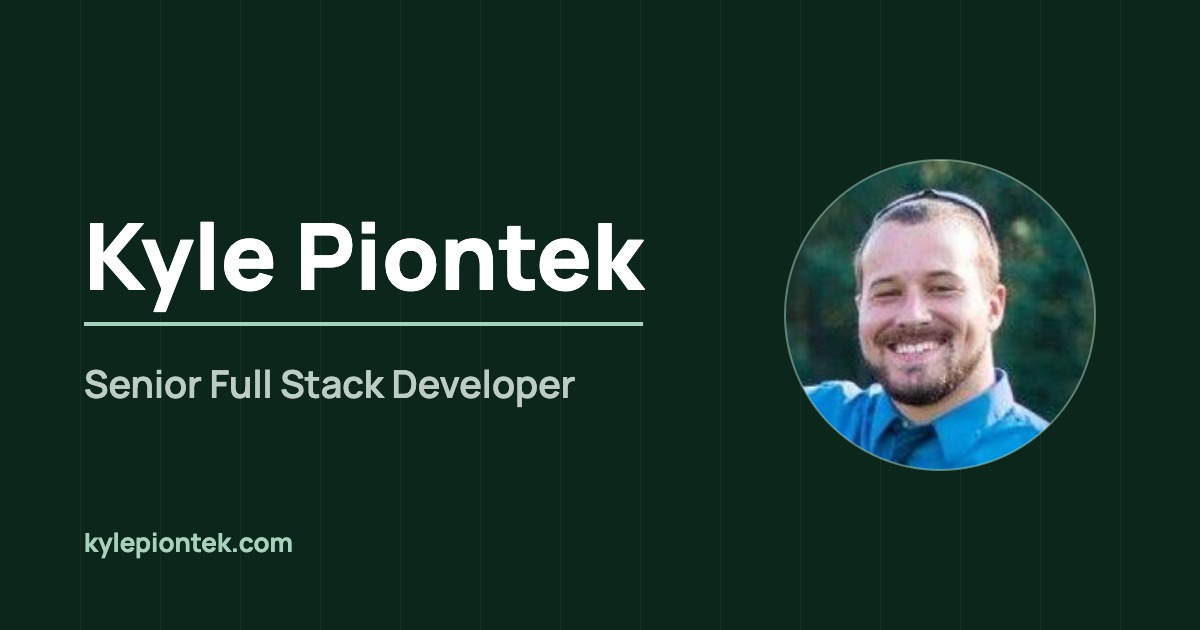
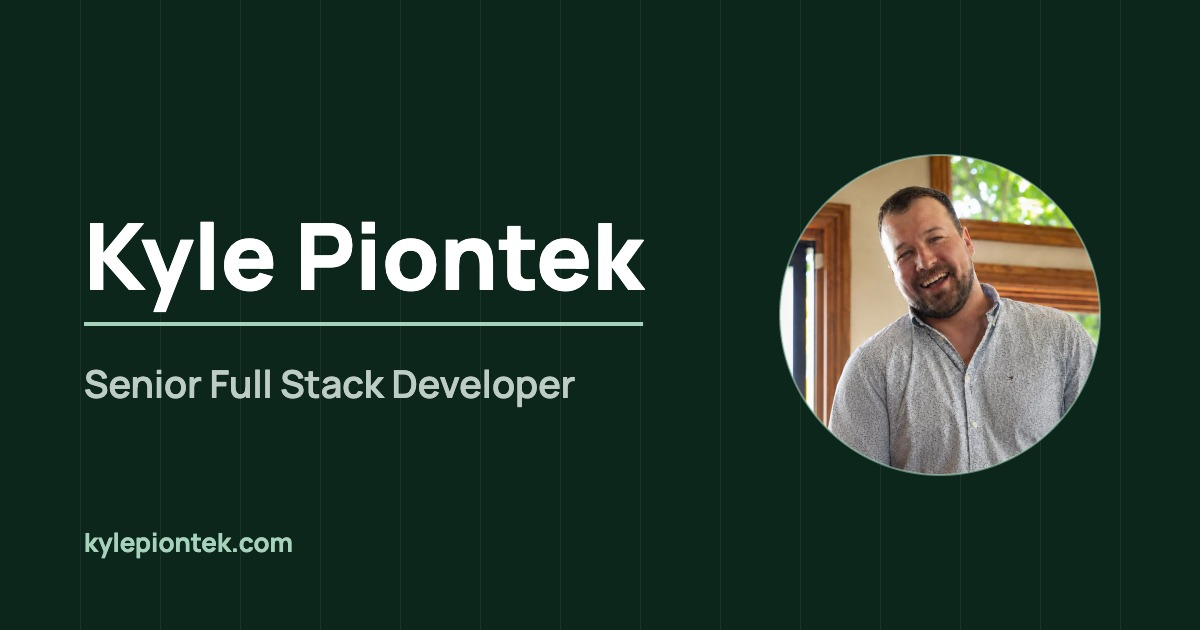
Sharpen the copy for recruiters and fix assets
The hero leads with concrete numbers and location, About states the
AI-native workflow, and the cards carry their proof numbers. The OG
card and JSON-LD photo use the new headshot. The resume PDF now says
420+ SiteCMD checks.

Changed region(s): [[0.6475, 0.2413, 0.925, 0.754]]

diff --git a/src/Portfolio.jsx b/src/Portfolio.jsx
@@ -220,13 +220,13 @@ function Portfolio() {
             <div className="hero-copy">
               <p>
                 I&apos;m a Senior Full Stack Developer with 15 years of
-                experience shipping, stabilizing, and modernizing software for
-                enterprise platforms, public services, and independent
-                products.
+                building and fixing software: 120+ state government websites,
+                a marketplace with 500,000 users, and four products of my own
+                that I run today.
               </p>
               <p>
-                I work from architecture through interface, with practical
-                judgment and care for the people using what I build.
+                Based in Vermont, working remotely, and open to senior and
+                staff engineering roles.
               </p>
               <div className="hero-actions">
                 <a className="button button-primary" href="#work">
@@ -274,8 +274,9 @@ function Portfolio() {
                   <h3>SiteCMD</h3>
                   <p>
                     A local-first desktop app, CLI, and MCP server that audit
-                    websites and source code, prioritize issues by real risk,
-                    and hand exact fixes to the tools developers already use.
+                    websites and source code with 420+ checks, prioritize
+                    issues by real risk, and hand exact fixes to the tools
+                    developers already use.
                   </p>
                   <p>
                     Built as one connected system, from the Rust scan engines
@@ -323,8 +324,8 @@ function Portfolio() {
                   </p>
                   <p>
                     Built around validated data for 124 teams and roughly 1,165
-                    static routes, with shared venue integrity rules and
-                    editorial tooling.
+                    static routes, now drawing 5,000+ monthly visitors, mostly
+                    from organic search.
                   </p>
                   <p className="project-stack">
                     Next.js, React, TypeScript, Supabase, Cloudflare
@@ -435,8 +436,8 @@ function Portfolio() {
             <div className="section-heading">
               <h2>Experience</h2>
               <p>
-                Senior contribution across independent products, enterprise
-                delivery, public infrastructure, and high-traffic platforms.
+                Fifteen years, from agency work to state government to
+                enterprise platforms, plus my own products since 2026.
               </p>
             </div>
 
@@ -499,8 +500,8 @@ function Portfolio() {
             <div className="about-copy">
               <h2>About</h2>
               <p className="about-lead">
-                I build dependable products, modernize complex platforms, and
-                help teams make sound technical decisions.
+                I build products end to end, keep difficult platforms online,
+                and work AI-native with a hard line on what ships.
               </p>
             </div>
 
@@ -512,12 +513,13 @@ function Portfolio() {
                 know how to improve them without losing what already works.
               </p>
               <p>
-                I also build products end to end. Recent work spans React
+                I also build products end to end. Claude Code and Codex write
+                a lot of my code now; automated tests, repository hooks, and my
+                own review decide what merges. Recent work spans React
                 frontends for Tauri desktop applications with Rust at the core,
                 data-heavy Next.js sites, public Cloudflare services, and the
-                operational work required to ship them. I mentor, review,
-                communicate tradeoffs, and step into technical leadership when
-                a project needs it.
+                operational work required to ship them. I mentor, review, and
+                step into technical leadership when a project needs it.
               </p>
             </div>
           </div>
@@ -531,7 +533,8 @@ function Portfolio() {
             ))}
             <p className="capabilities-stack">
               Day to day: TypeScript, JavaScript, React, Next.js, Node.js, PHP,
-              Drupal, GraphQL, MySQL, Rust, Tauri, and Cloudflare.
+              Drupal, GraphQL, MySQL, Rust, Tauri, Cloudflare, Claude Code,
+              Codex, and MCP.
             </p>
           </div>
         </section>
@@ -557,19 +560,11 @@ function Portfolio() {
                 <span className="sr-only"> opens in a new tab</span>
               </a>
               <a
-                href="https://github.com/kpiontek"
-                target="_blank"
-                rel="noreferrer"
-              >
-                Personal GitHub
-                <span className="sr-only"> opens in a new tab</span>
-              </a>
-              <a
                 href="https://github.com/brambleworks"
                 target="_blank"
                 rel="noreferrer"
               >
-                Brambleworks GitHub
+                GitHub
                 <span className="sr-only"> opens in a new tab</span>
               </a>
             </div>

diff --git a/index.html b/index.html
@@ -46,7 +46,7 @@
         "name": "Kyle Piontek",
         "jobTitle": "Senior Full Stack Developer",
         "url": "https://kylepiontek.com",
-        "image": "https://kylepiontek.com/headshot.jpg",
+        "image": "https://kylepiontek.com/headshot.webp",
         "email": "mailto:hello@kylepiontek.com",
         "address": {
           "@type": "PostalAddress",
@@ -54,7 +54,10 @@
           "addressRegion": "VT",
           "addressCountry": "US"
         },
-        "sameAs": ["https://www.linkedin.com/in/kyle-piontek"]
+        "sameAs": [
+          "https://www.linkedin.com/in/kyle-piontek",
+          "https://github.com/brambleworks"
+        ]
       }
     </script>
 
